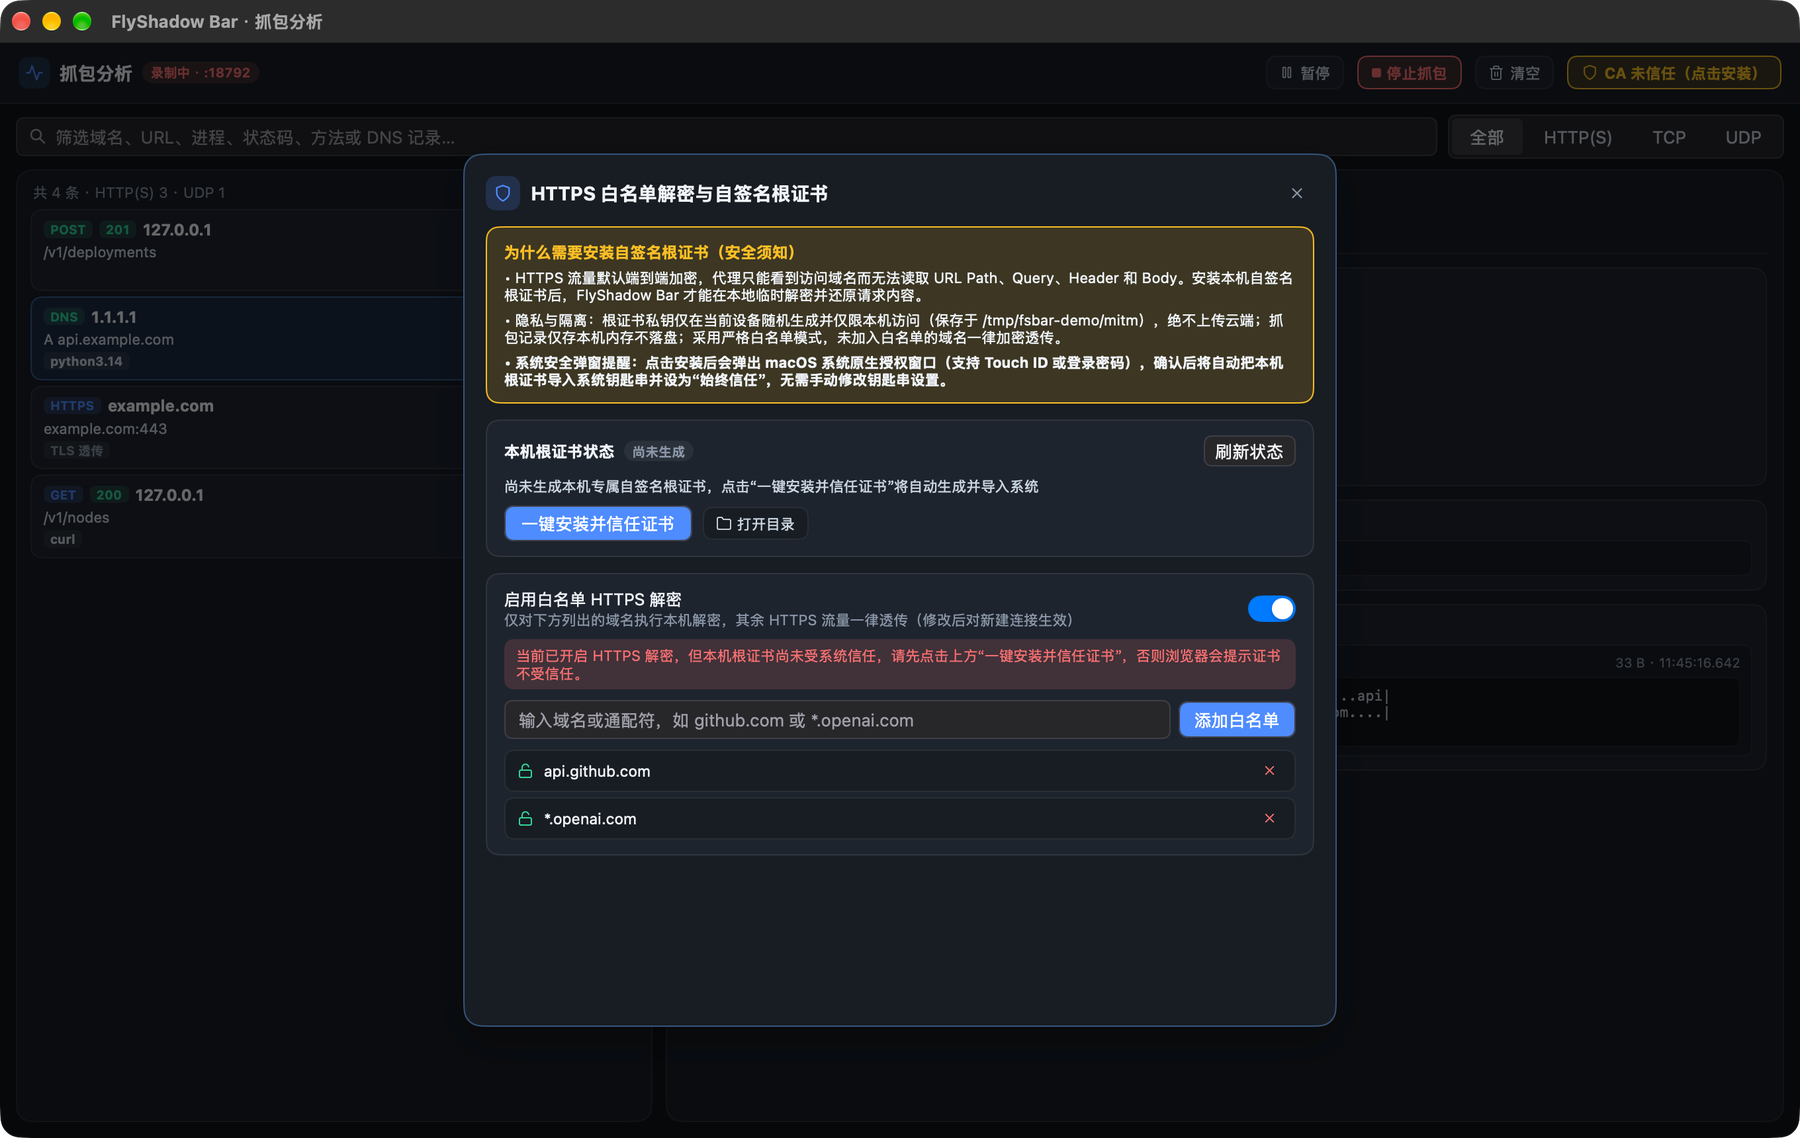
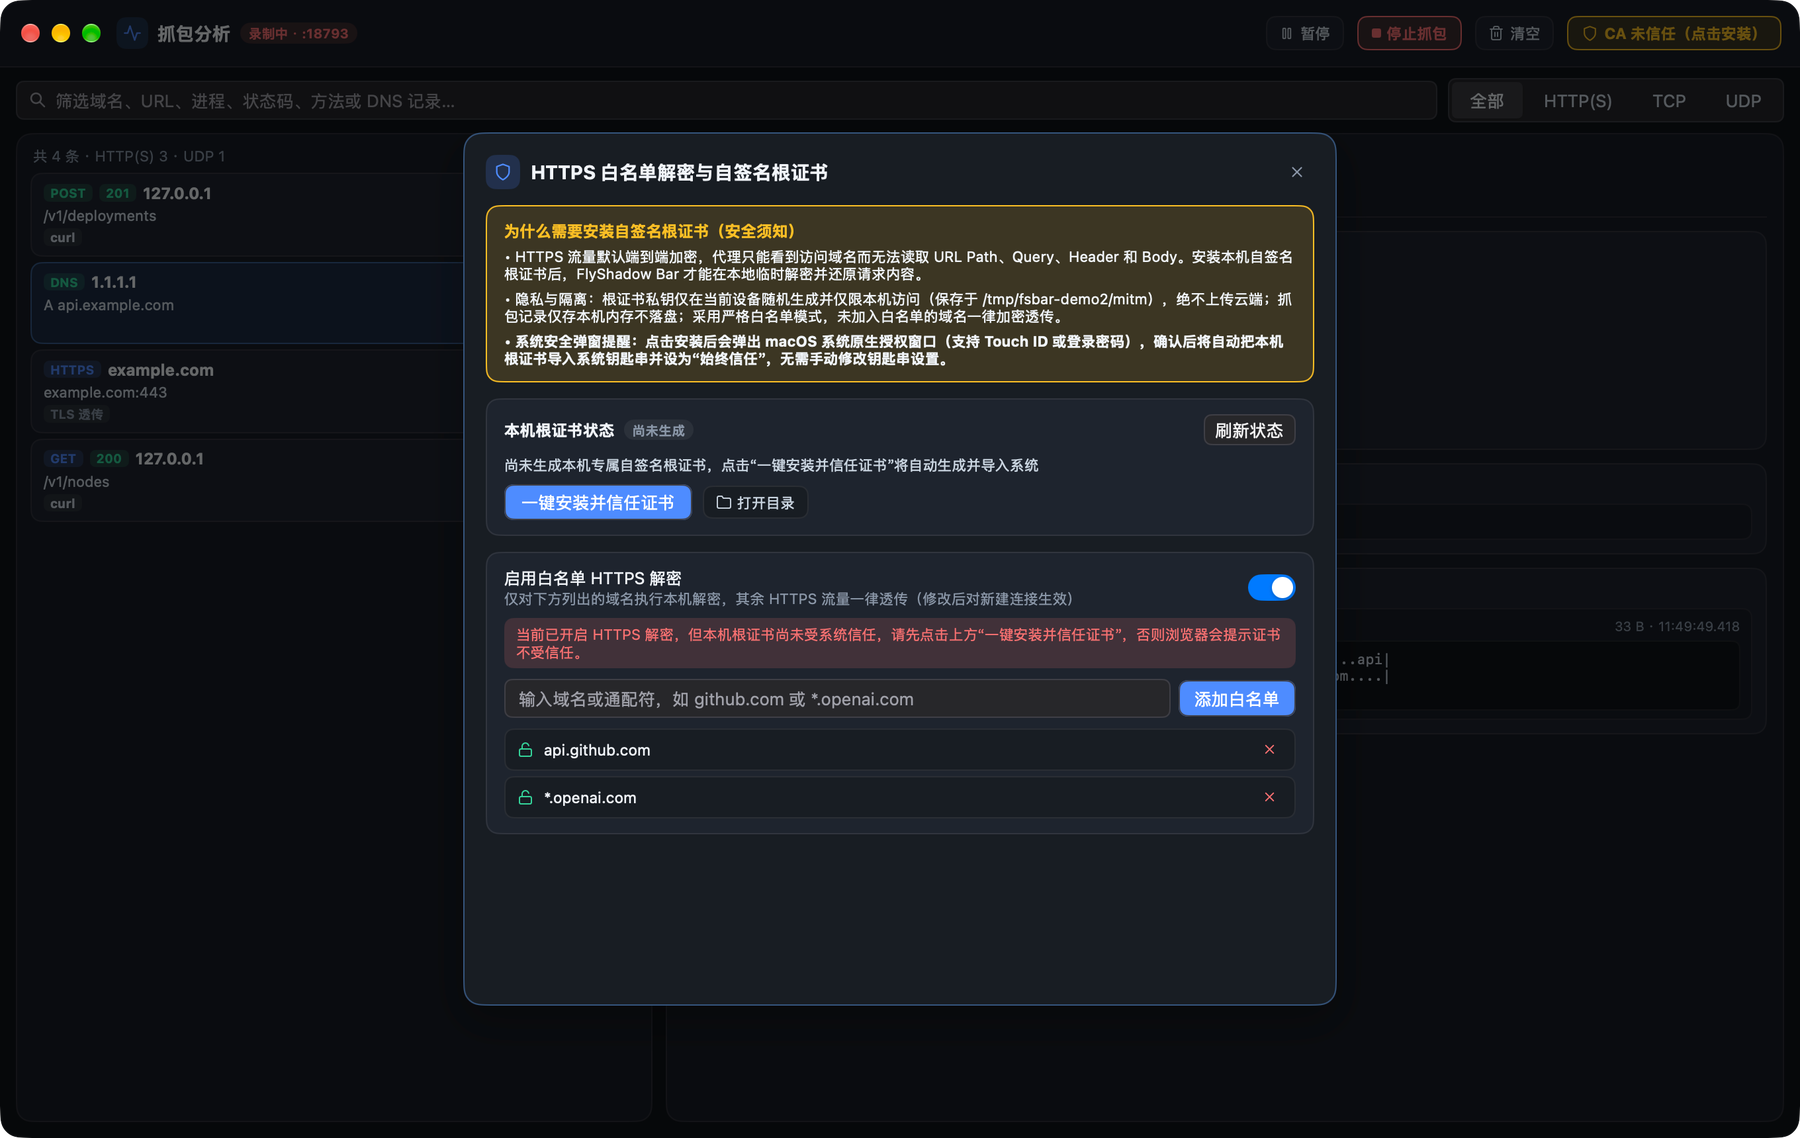
feat: 抓包分析大窗口改为一体化自绘标题栏并内置原生红绿灯

diff --git a/internal/ui/app.go b/internal/ui/app.go
@@ -684,14 +684,17 @@ func (a *App) ensureCaptureWindow() {
 	}
 	w, h := calcPreferredCaptureWindowSize()
 	a.captureWin = mygo.NewWindow(mygo.WindowOptions{
-		Title:     "FlyShadow Bar · 抓包分析",
-		Width:     w,
-		Height:    h,
-		MinWidth:  960,
-		MinHeight: 620,
-		StateKey:  "capture-inspector-v2",
-		Hidden:    true,
-		Content:   ui.View(a.captureVM.render),
+		Title:                "FlyShadow Bar · 抓包分析",
+		Width:                w,
+		Height:               h,
+		MinWidth:             960,
+		MinHeight:            620,
+		StateKey:             "capture-inspector-v2",
+		Hidden:               true,
+		TitleBarStyle:        mygo.TitleBarHidden,
+		TrafficLightPosition: &mygo.Point{X: 16, Y: 18},
+		TitleBarHeight:       48,
+		Content:              ui.View(a.captureVM.render),
 	})
 	a.captureWin.OnClose(func(e *mygo.CloseEvent) {
 		if !a.quitting {

diff --git a/internal/ui/capture_window.go b/internal/ui/capture_window.go
@@ -120,9 +120,14 @@ func (vm *captureViewModel) render(c *ui.Context) {
 
 func (vm *captureViewModel) renderHeaderBar(c *ui.Context, p palette) {
 	st := vm.status
+	bar := c.TitleBar()
+	barH := max(bar.Height, 48)
+	leftPad := max(bar.Left+12, 14)
+	rightPad := max(bar.Right+12, 14)
 
 	ui.Column(c).Background(p.card).Children(func() {
-		ui.Row(c).Padding(10, 14).AlignItems(ui.Center).Gap(10).Children(func() {
+		ui.Row(c).Height(barH).Padding(0, rightPad, 0, leftPad).AlignItems(ui.Center).Gap(10).
+			DragWindow().Children(func() {
 		// 左侧应用标识与标题
 		ui.Row(c).AlignItems(ui.Center).Gap(7).Children(func() {
 			ui.Box(c).Size(24, 24).Radius(7).Background(p.accentSoft).Center().Children(func() {
